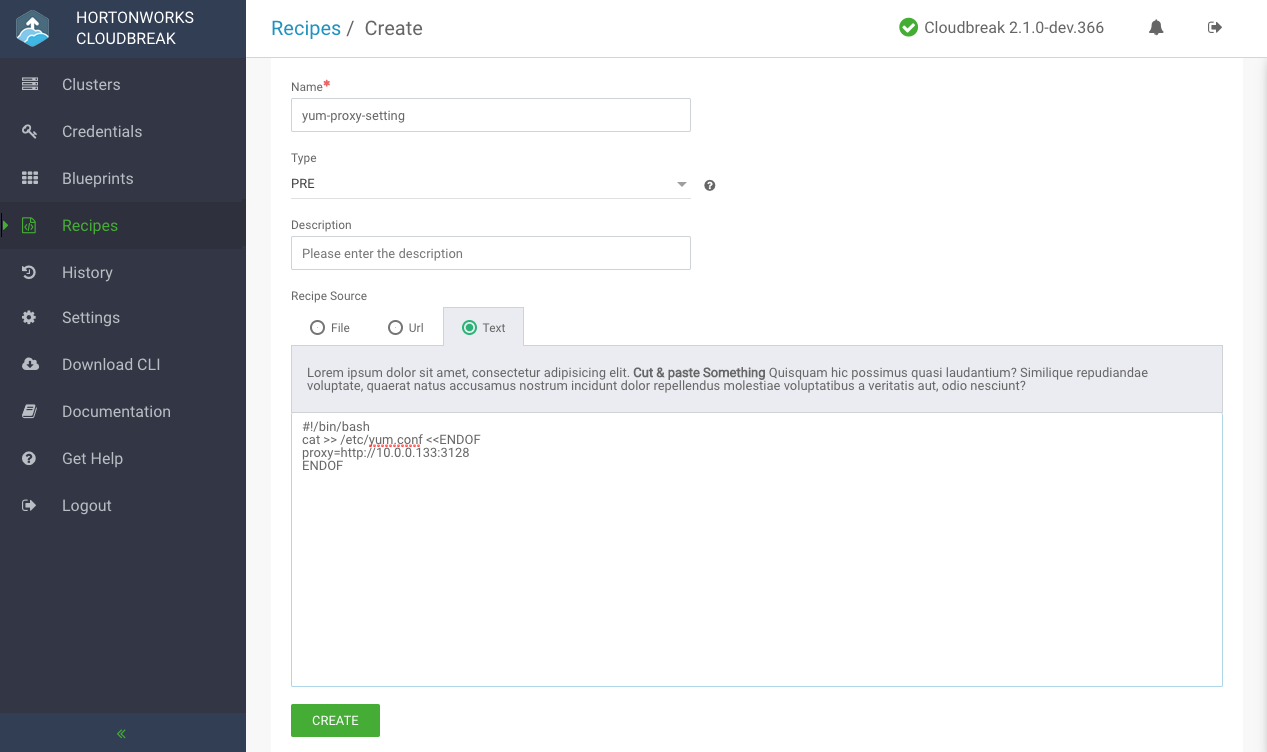
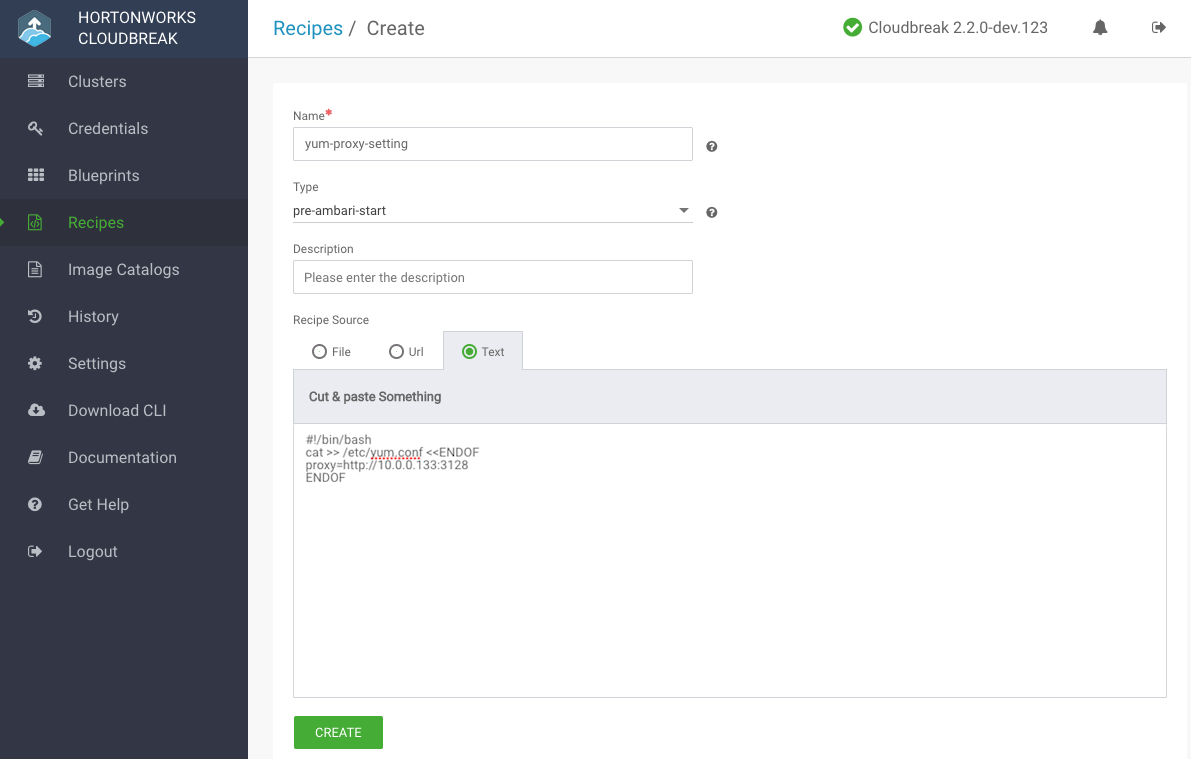
Updating the security group doc

diff --git a/docs/recipes.md b/docs/recipes.md
@@ -4,7 +4,7 @@ Although Cloudbreak lets you provision HDP clusters in the cloud based on custom
 
 A recipe is a script that runs on all nodes of a selected node group before or after the Ambari cluster installation. You can use recipes for tasks such as installing additional software or performing advanced cluster configuration. For example, you can use a recipe to put a JAR file on the Hadoop classpath.
 
-When creating a cluster, you can optionally upload one or more "recipes" (custom scripts) and they will be executed on a specific host group before or after the cluster installation. 
+When creating a cluster, you can optionally upload one or more "recipes" (custom scripts) and they will be executed on a specific host group before Ambari server start, after Ambari server start, or after cluster installation. 
 
 
 ### Writing Recipes
@@ -46,7 +46,7 @@ To add a recipe, perform these steps.
 |---|---|
 | Name | Enter a name for your recipe. |
 | Description | (Optional) Enter a description for your recipe.|
-| Execution Type | Select one of the following options: <ul><li>**PRE**: The script will be executed prior to Ambari cluster deployment.</li><li>**POST**: The script will be executed after Ambari cluster deployment.</li></ul>|
+| Execution Type | Select one of the following options: <ul><li>**pre-ambari-start**: The script will be executed prior to Ambari server start.</li><li>**post-ambari-start**: The script will be executed after Ambari server start but prior to cluster installation.</li><li>**post-cluster-install**: The script will be executed after Ambari cluster deployment.</li></ul>|
 | Script | <p>Select one of: <ul><li>**Script**: Paste the script.</li><li> **File**: Point to a file on your machine that contains the recipe.</li><li> **URL**: Specify the URL for your recipe.</li></ul> |
 
     <a href="../images/cb-recipe-add.png" target="_blank" title="click to enlarge"><img src="../images/cb-recipe-add.png" width="650" title="Cloudbreak web UI"></a> 

diff --git a/docs/releasenotes.md b/docs/releasenotes.md
@@ -93,13 +93,16 @@ ____________________________
 
 
 
-##### (BUG-91835) Default Ambari Node Security Group Has Port 9443 Inbound CIDR Set to 0.0.0.0/0 
+##### (BUG-91835) Default Ambari Node Security Group Has Port 22, 443, and 9443 Inbound CIDR Set to 0.0.0.0/0 
 
-By default, port 9443 is set to 0.0.0.0/0 CIDR for inbound access on the default-ambari-security-group.  
+By default, ports 22, 443, and 9443 are set to 0.0.0.0/0 CIDR for inbound access on the Ambari node security group.  
 
-*Workaround*: If you choose to use the default-ambari-security-group for your Ambari host group security group, it is strongly recommended that you limit this CIDR in the security group to only allow traffic from your Cloudbreak VM instance IP.  
+*Workaround*: We strongly recommend that you limit this CIDR in the security group:
 
-[Comment]: <> (This should be fixed in 2.2.0 TP)
+* For port 9443 to only allow traffic from your Cloudbreak VM instance public IP.   
+* For ports 22 and 443 to only allow traffic from your public IP.   
+
+[Comment]: <> (This should be fixed in 2.3.0 TP)
 ____________________________
 
 

diff --git a/docs/security.md b/docs/security.md
@@ -53,8 +53,8 @@ As an alternative to creating new security groups, you can select from your exis
     <p class="first admonition-title">Important</p>
     <p class="last">
 By default, ports 22, 443, and 9443 are set to 0.0.0.0/0 CIDR for inbound access. We strongly recommend that you limit this CIDR in the security group:
-<ul><li>For port 9443 to only allow traffic from your Cloudbreak VM instance public IP address.</li> 
-<li>For ports 22 and 443 to only allow traffic from your public IP address.</li></ul>  
+<ul><li>For port 9443 to only allow traffic from your Cloudbreak VM instance public IP.</li> 
+<li>For ports 22 and 443 to only allow traffic from your public IP.</li></ul>  
 </p>
 </div>
 
